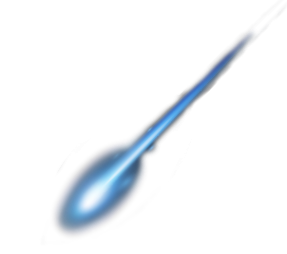
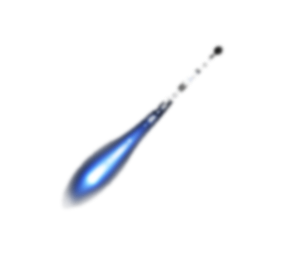
12102

Changed region(s): [[0.1951, 0.1102, 0.892, 0.937]]

diff --git a/scss/style.scss b/scss/style.scss
@@ -294,7 +294,7 @@ body{background: url(../images/bg.jpg) no-repeat left top;max-width: 640px;margi
 		width: 144px;height: 127px;background-image: url(../images/lx.png);background-repeat:no-repeat;background-size: 100% 100%;position: absolute;display: block;
 		&.lx1{top: -130px;right: 47px;}
 		&.lx2{top: 40px;right: -125px;z-index: 1;}
-		&.lx3{width: 243px;height: 241px;/* width: 110px;height: 104px; */top: 38px;left: 250px;opacity: 0;}
+		&.lx3{width: 243px;height: 241px;/* width: 110px;height: 104px; */top: 30px;left: 267px;opacity: 0;}
 	}
 	.bs{width: 243px;height: 241px;top: 100px;background: url(../images/bs.png) no-repeat;position: absolute;left: 50%;margin-left: -240px/$m;opacity: 0;}
 	&.on{

diff --git a/index.html b/index.html
@@ -173,7 +173,7 @@
 				</div>
 				<p class="wishsucc">
 					<img src="images/share2.png" alt="">
-					还等什么？快将星愿点亮,<br>把凡士林神秘礼盒带走吧!
+					快点亮星愿,带走凡士林星愿礼盒!<br>在COSMO 2015美容大奖年度手霜的<br>保驾护航中,开启你的美手修护之旅!
 				</p>
 				<div class="wishbtn"></div>
 			</div>
